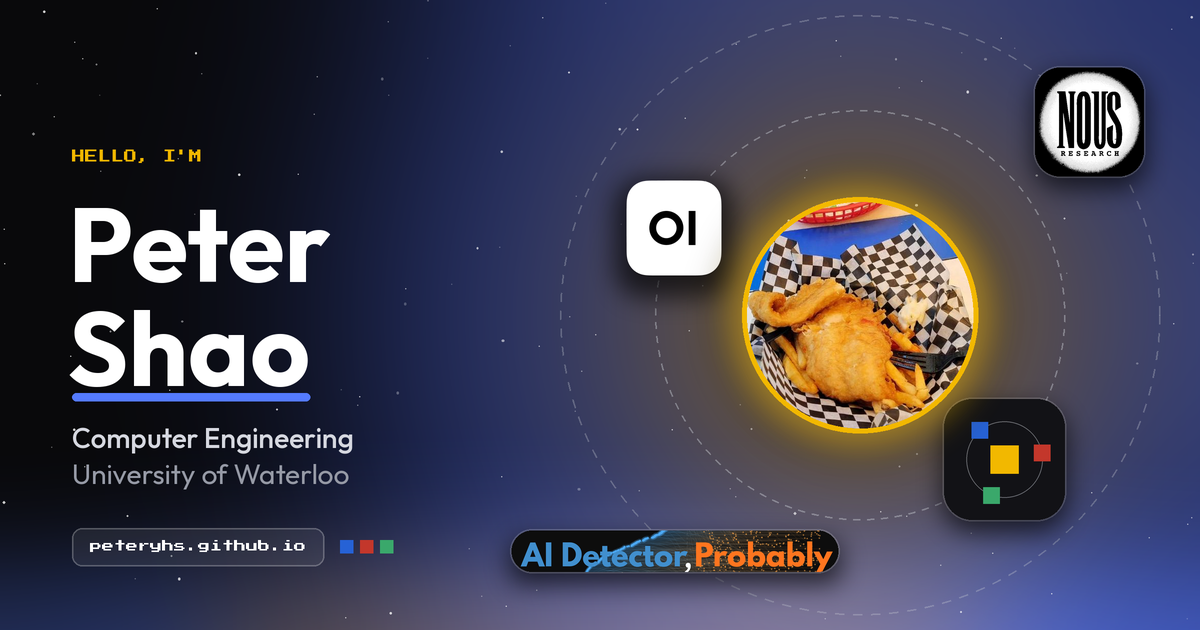
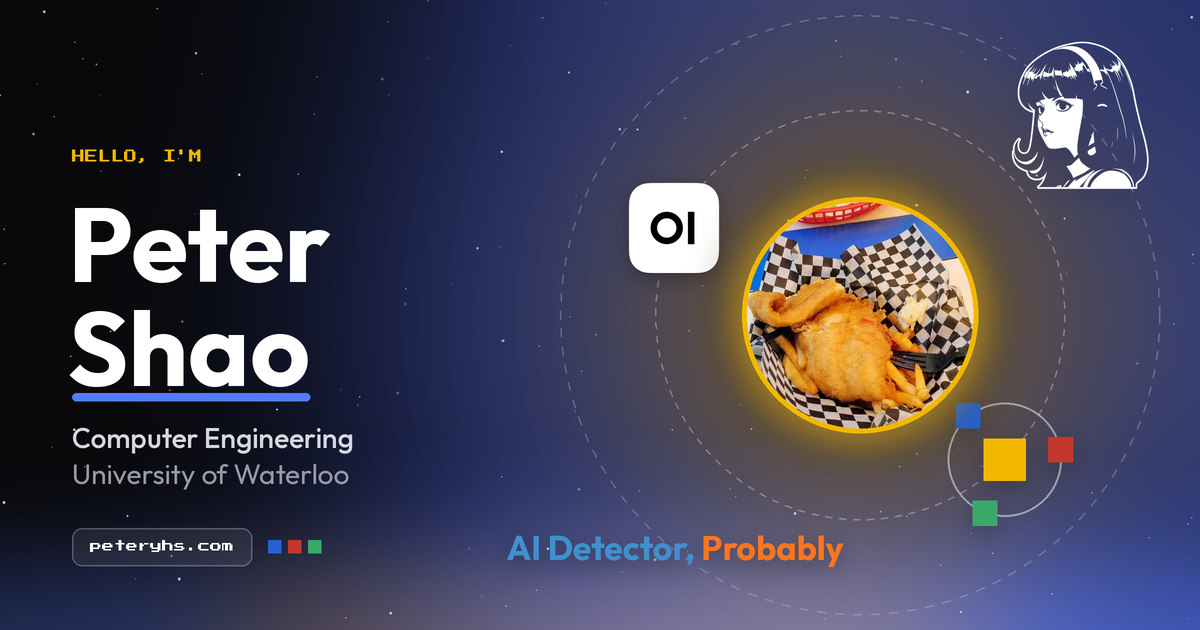
style: cleaner link preview card
Logos now float bare on the orbits with no tiles: OpenWebUI keeps its rounded
icon, Hermes uses the Nous girl mark, the Sun Systems mark is unboxed, and the
AI Detector wordmark is set in its own colours without the banner background.
URL chip and og/twitter URLs point at peteryhs.com.

Powered-by: Hark (model routed by Hark; specific model not exposed)

diff --git a/index.html b/index.html
@@ -6,18 +6,18 @@
     <meta name="description" content="Computer Engineering at the University of Waterloo. Distributed systems, applied ML, and everyday software." />
     <meta name="theme-color" content="#f4f0e7" />
     <meta property="og:type" content="website" />
-    <meta property="og:url" content="https://peteryhs.github.io/" />
+    <meta property="og:url" content="https://peteryhs.com/" />
     <meta property="og:site_name" content="Peter Shao" />
     <meta property="og:title" content="Peter Shao" />
     <meta property="og:description" content="Computer Engineering at the University of Waterloo. Distributed systems, applied ML, and everyday software." />
-    <meta property="og:image" content="https://peteryhs.github.io/og-image.png" />
+    <meta property="og:image" content="https://peteryhs.com/og-image.png" />
     <meta property="og:image:width" content="1200" />
     <meta property="og:image:height" content="630" />
     <meta property="og:image:alt" content="Peter Shao, Computer Engineering at the University of Waterloo, with his projects orbiting his profile photo." />
     <meta name="twitter:card" content="summary_large_image" />
     <meta name="twitter:title" content="Peter Shao" />
     <meta name="twitter:description" content="Computer Engineering at the University of Waterloo. Distributed systems, applied ML, and everyday software." />
-    <meta name="twitter:image" content="https://peteryhs.github.io/og-image.png" />
+    <meta name="twitter:image" content="https://peteryhs.com/og-image.png" />
     <title>Peter Shao's Page</title>
     <link rel="icon" type="image/x-icon" href="/favicon.ico" />
     <link rel="icon" type="image/png" sizes="32x32" href="/favicon-32x32.png" />
